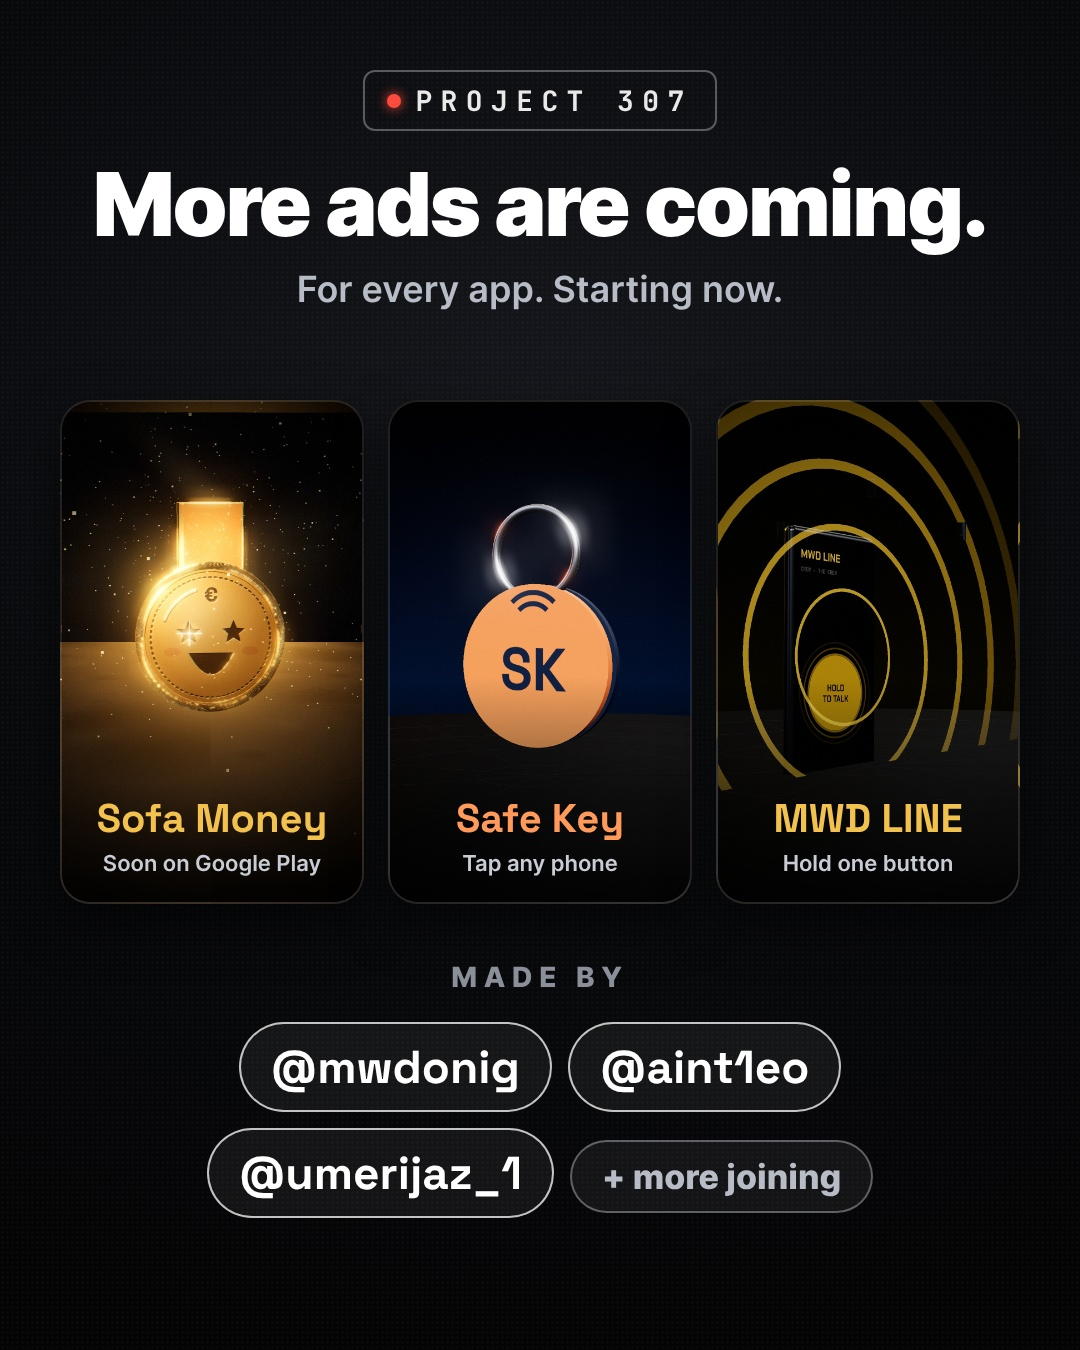
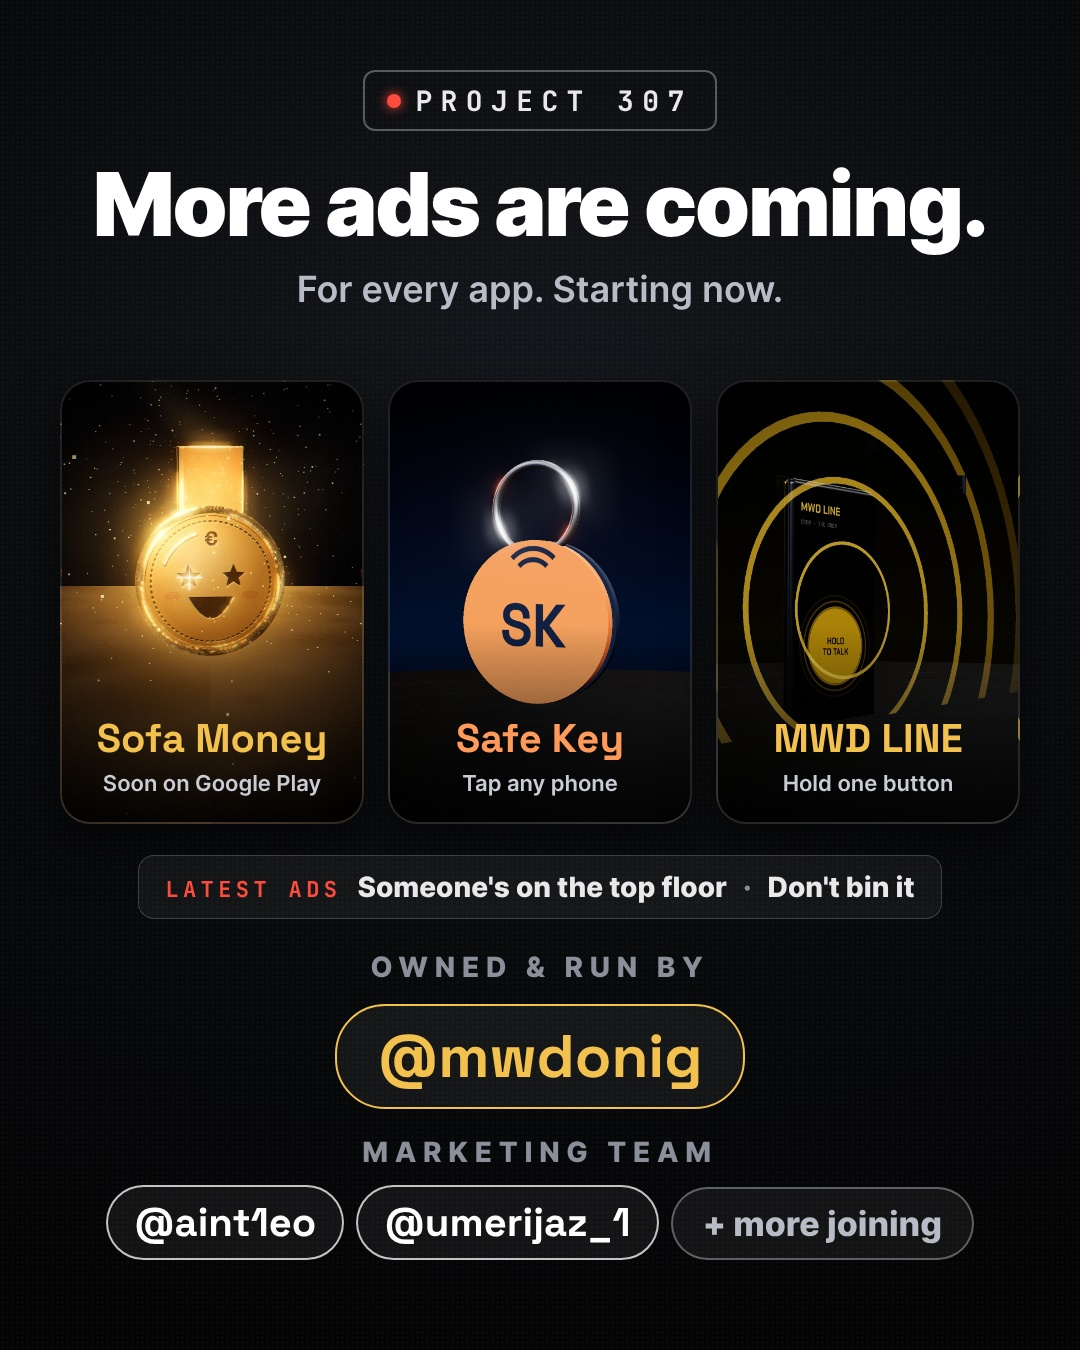
Project 307 post: latest ads, owner and marketing team
Claude-Session: https://claude.ai/code/session_011CjXYhTXjafnrtc9sWbP1L

diff --git a/kit/scenes/p307-ads-post/index.html b/kit/scenes/p307-ads-post/index.html
@@ -15,8 +15,8 @@ body{background:radial-gradient(110% 70% at 50% 30%,#15171c 0%,#08090b 60%,#0404
 .lab i{width:14px;height:14px;border-radius:50%;background:#FF4B3E;box-shadow:0 0 12px #FF4B3E}
 .h{font:900 88px/1 Inter;letter-spacing:-.025em;white-space:nowrap}
 .sub{font:600 36px/1.3 Inter;color:#b8bcc6;margin-top:18px}
-.tiles{position:absolute;left:60px;right:60px;top:400px;display:flex;gap:24px}
-.t{flex:1;height:500px;border-radius:30px;overflow:hidden;position:relative;background-size:cover;background-position:center;box-shadow:0 20px 50px rgba(0,0,0,.6);border:2px solid rgba(255,255,255,.12)}
+.tiles{position:absolute;left:60px;right:60px;top:380px;display:flex;gap:24px}
+.t{flex:1;height:440px;border-radius:30px;overflow:hidden;position:relative;background-size:cover;background-position:center;box-shadow:0 20px 50px rgba(0,0,0,.6);border:2px solid rgba(255,255,255,.12)}
 .t:after{content:'';position:absolute;inset:0;background:linear-gradient(180deg,rgba(0,0,0,0) 55%,rgba(0,0,0,.88) 100%)}
 .t .n{position:absolute;left:0;right:0;bottom:26px;text-align:center;z-index:2}
 .t .n b{display:block;font:700 40px Grot}
@@ -25,6 +25,11 @@ body{background:radial-gradient(110% 70% at 50% 30%,#15171c 0%,#08090b 60%,#0404
 .chips{margin-top:20px}
 .chip{display:inline-block;margin:8px 8px;padding:14px 30px;border-radius:50px;font:700 46px Grot;color:#fff;background:rgba(255,255,255,.06);border:2.5px solid rgba(255,255,255,.75)}
 .chip.more{font:800 34px Inter;color:#b8bcc6;border-color:rgba(184,188,198,.45)}
+.latest{display:inline-block;font:700 28px Inter;color:#e9e9ea;padding:14px 26px;border-radius:16px;background:rgba(255,255,255,.05);border:1.5px solid rgba(255,255,255,.18)}
+.latest .k{font:700 22px Mono;letter-spacing:.2em;color:#FF4B3E;margin-right:16px}.latest em{font-style:normal;color:#8a8f99;margin:0 10px}
+.chip.own{font:700 60px Grot;color:#F2C14E;border-color:#F2C14E;padding:12px 40px}
+.chip.sm{font:700 40px Grot;padding:10px 26px;margin:6px}
+.chip.more{margin:6px}
 </style></head><body>
 <div class="grain"></div>
 <div class="c" style="top:70px"><div class="lab"><i></i>PROJECT 307</div></div>
@@ -34,7 +39,9 @@ body{background:radial-gradient(110% 70% at 50% 30%,#15171c 0%,#08090b 60%,#0404
  <div class="t" style="background-image:url(sk.jpg);background-position:center 40%"><div class="n"><b style="color:#FF9A5A">Safe Key</b><s>Tap any phone</s></div></div>
  <div class="t" style="background-image:url(ml.jpg);background-position:center 45%"><div class="n"><b style="color:#F2C14E">MWD LINE</b><s>Hold one button</s></div></div>
 </div>
-<div class="c" style="top:960px"><div class="by">MADE BY</div><div class="chips"><span class="chip">@mwdonig</span><span class="chip">@aint1eo</span><br><span class="chip">@umerijaz_1</span><span class="chip more">+ more joining</span></div></div>
+<div class="c" style="top:855px"><div class="latest"><span class="k">LATEST ADS</span>Someone's on the top floor <em>·</em> Don't bin it</div></div>
+<div class="c" style="top:950px"><div class="by">OWNED &amp; RUN BY</div><div class="chips" style="margin-top:12px"><span class="chip own">@mwdonig</span></div></div>
+<div class="c" style="top:1135px"><div class="by">MARKETING TEAM</div><div class="chips" style="margin-top:10px"><span class="chip sm">@aint1eo</span><span class="chip sm">@umerijaz_1</span><span class="chip more">+ more joining</span></div></div>
 <script>
 window.renderAt=()=>{};
 (async()=>{await Promise.all(['sm.jpg','sk.jpg','ml.jpg'].map(u=>new Promise(r=>{const i=new Image();i.onload=i.onerror=r;i.src=u})));
